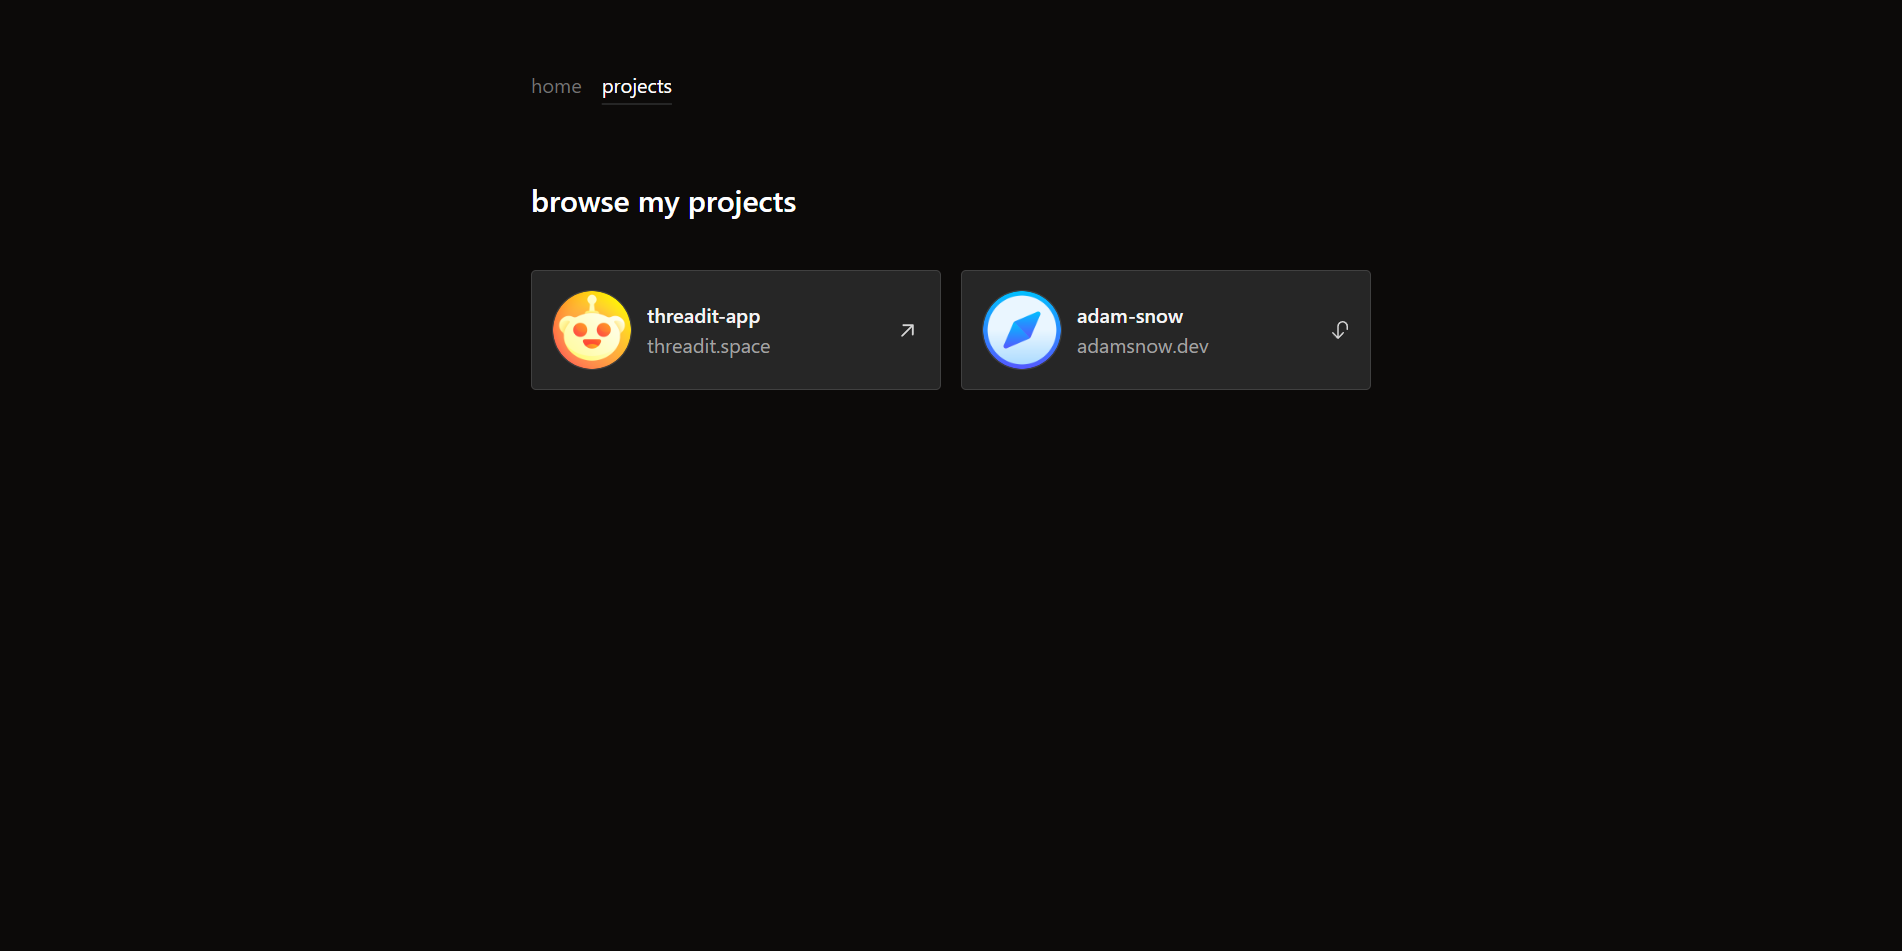
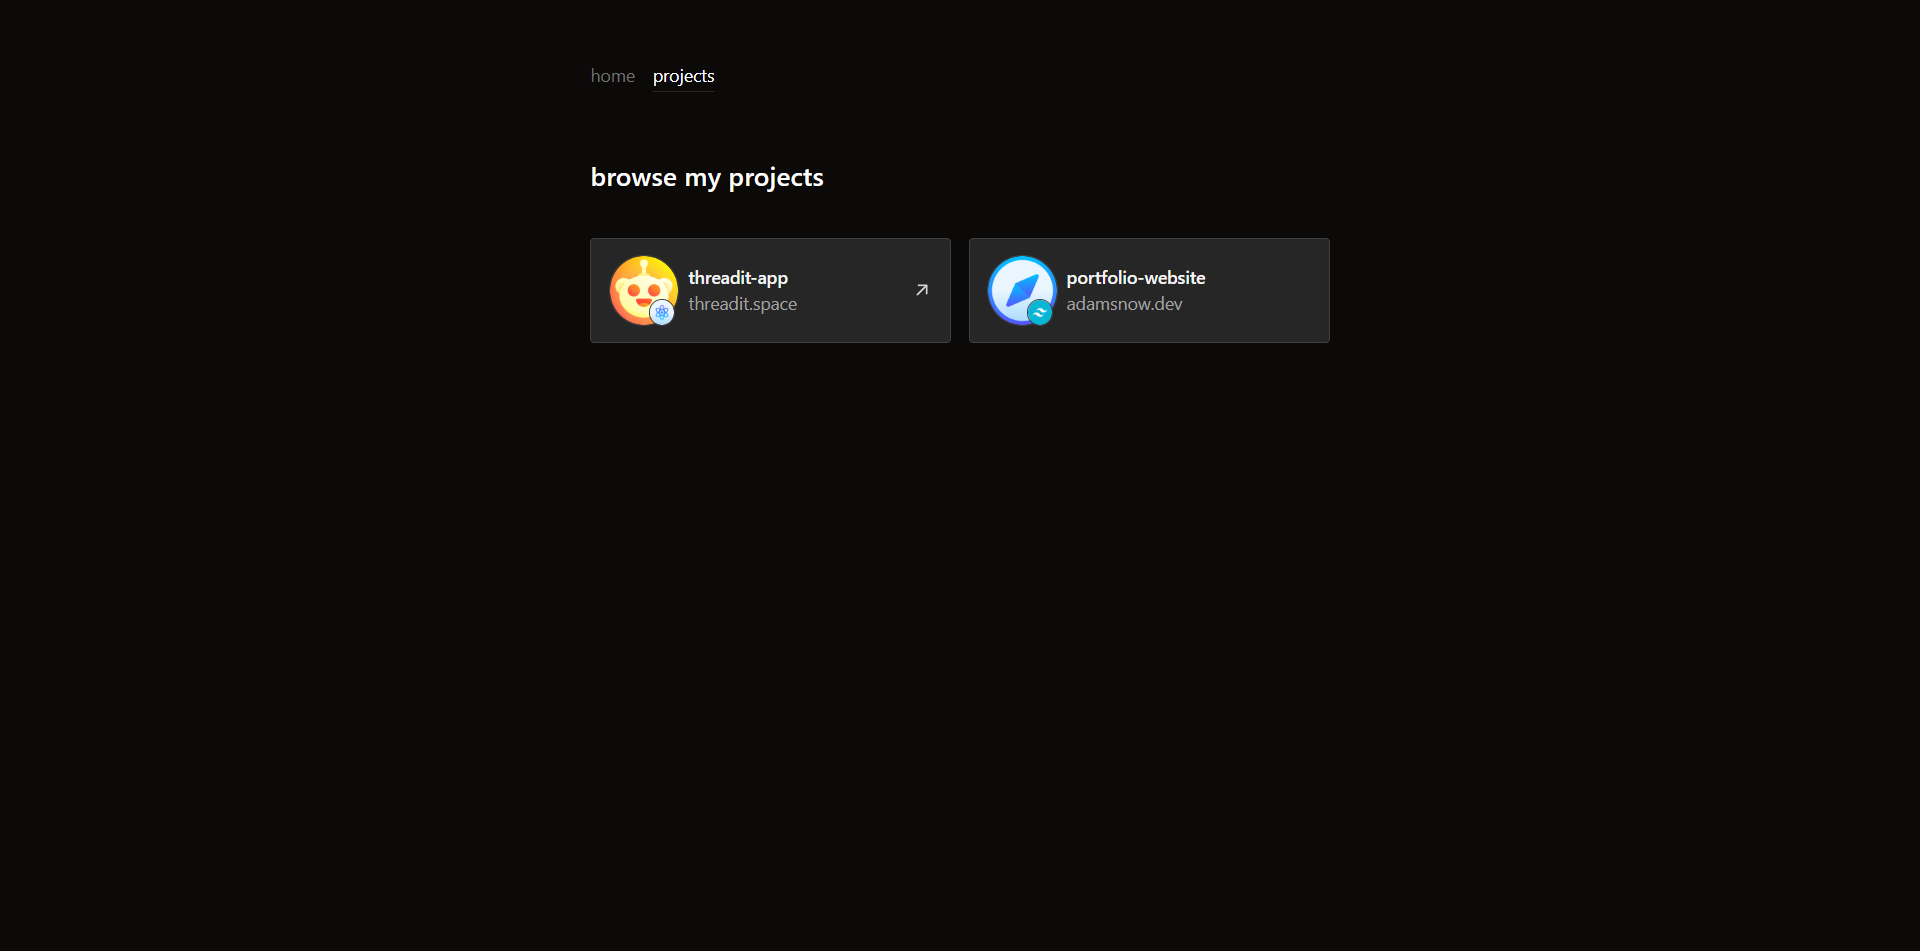
Add retro arcade, update portfolio name

Changed region(s): [[0.279, 0.183, 0.7441, 0.4269], [0.279, 0.061, 0.372, 0.122]]

diff --git a/README.md b/README.md
@@ -1,4 +1,4 @@
-# adam-snow
+# Portfolio Website
 #### [A website that contains information about me and features some of the projects I have built.](https://adamsnow.dev)
 
 ## Features
